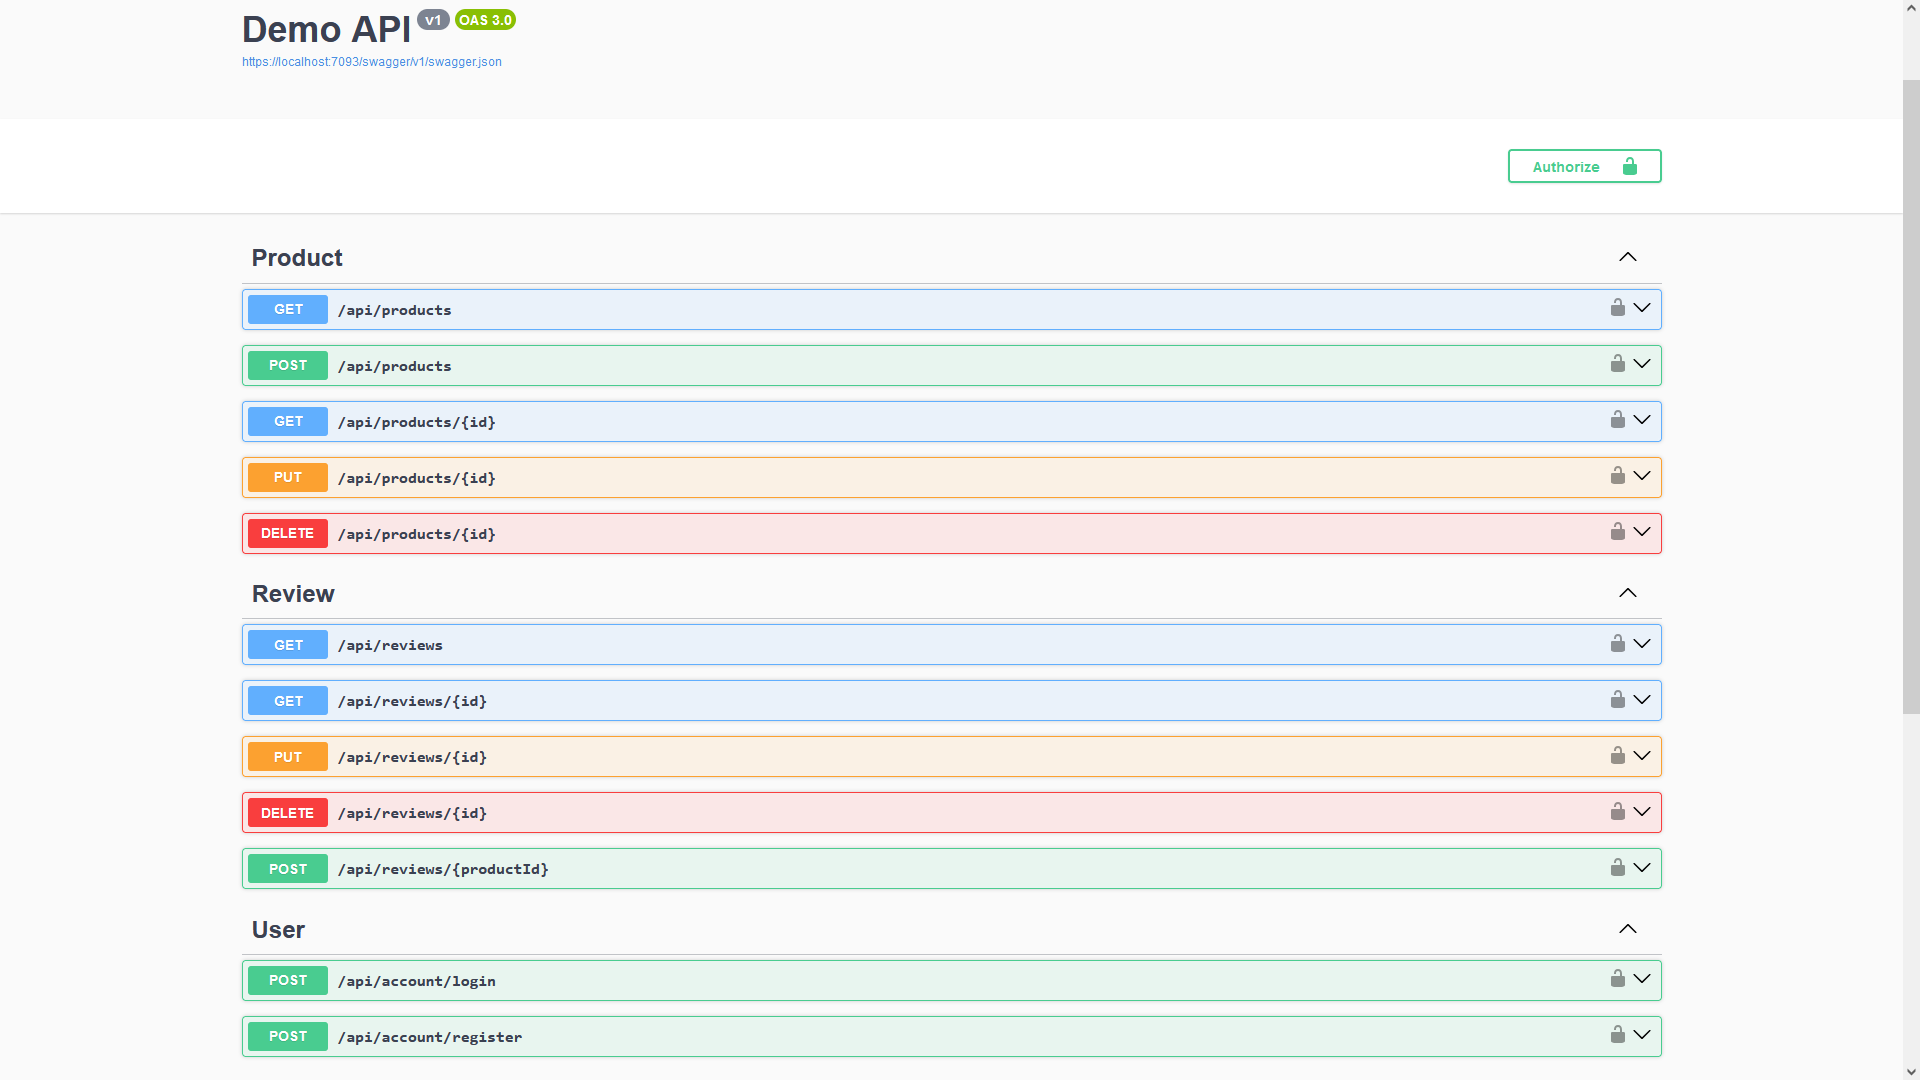
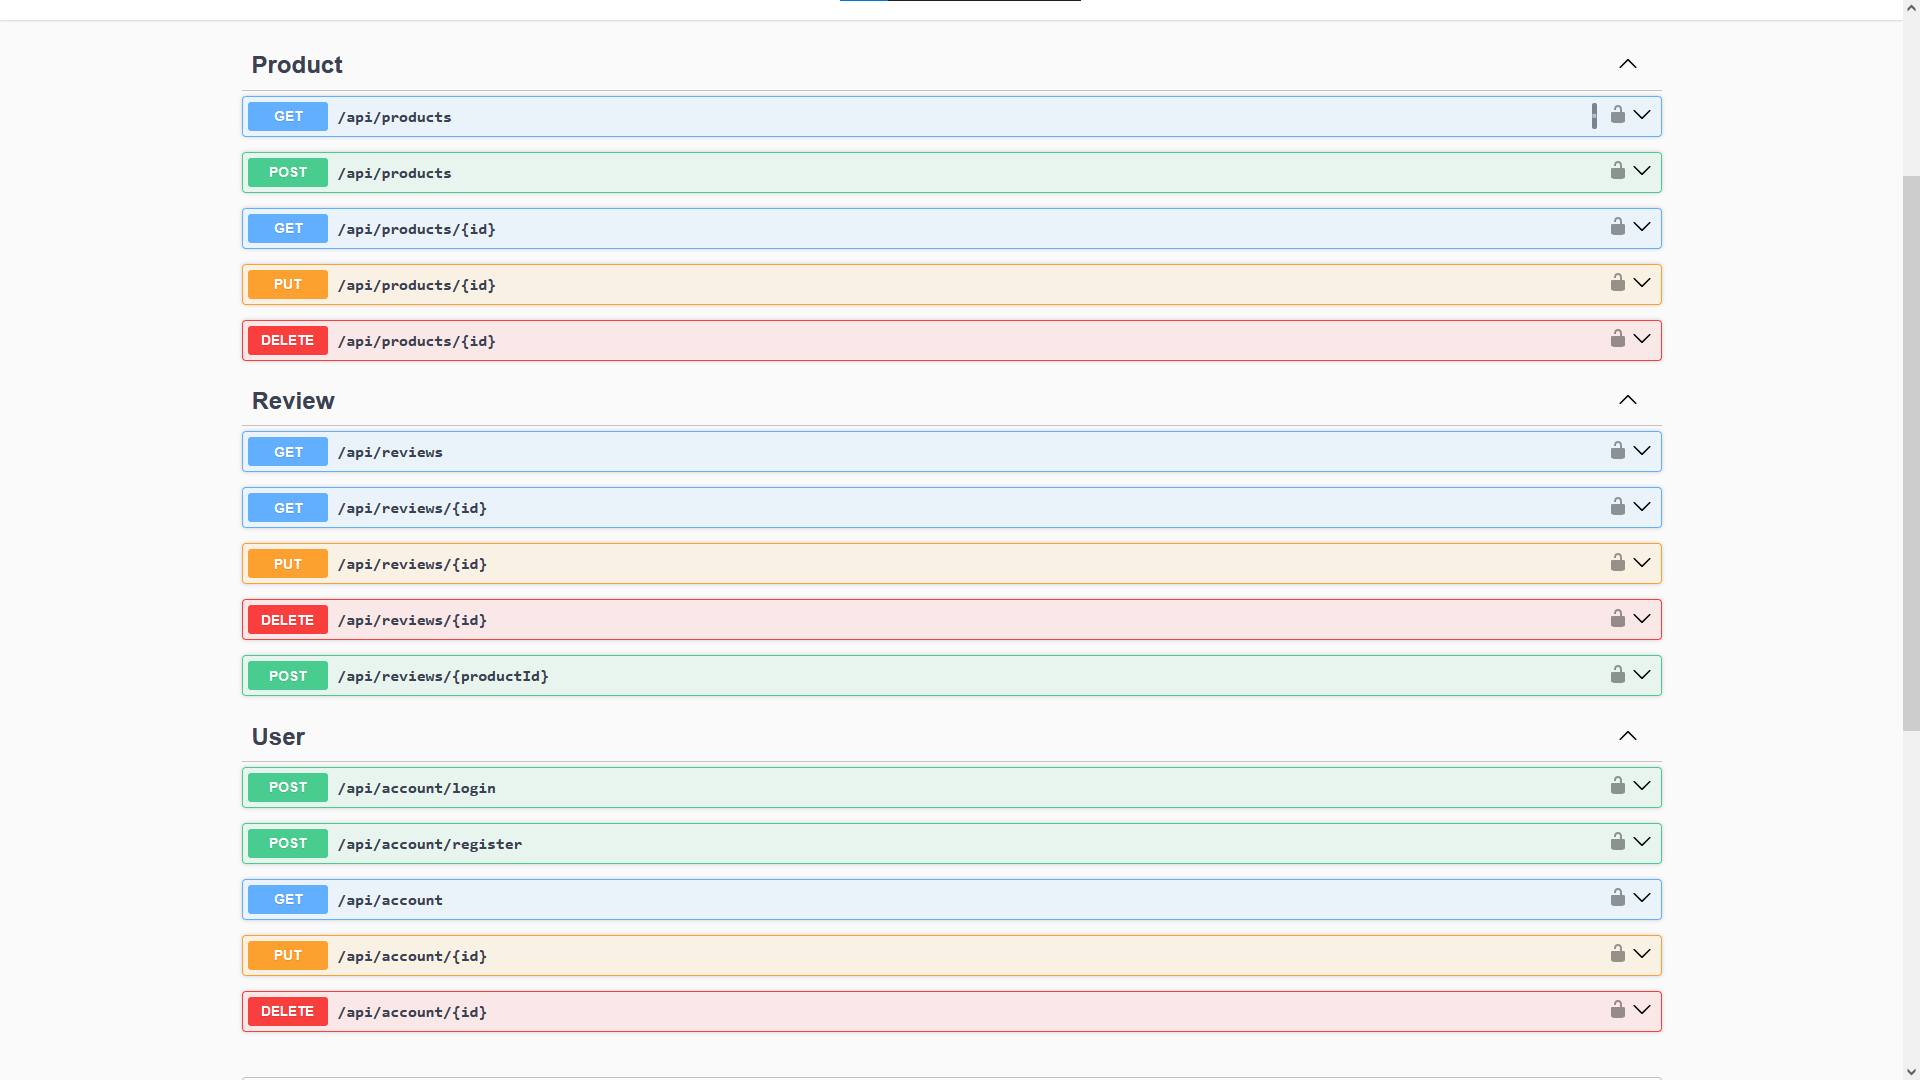
Add user routes and authorization

diff --git a/ProductReviewAPI/Controllers/UserController.cs b/ProductReviewAPI/Controllers/UserController.cs
@@ -1,10 +1,13 @@
-using Azure.Identity;
+using System.Data;
+using Azure.Identity;
+using Microsoft.AspNetCore.Authorization;
 using Microsoft.AspNetCore.Identity;
 using Microsoft.AspNetCore.Mvc;
 using Microsoft.EntityFrameworkCore;
 using ProductReviewAPI.Dtos.User;
 using ProductReviewAPI.Entities;
 using ProductReviewAPI.Interfaces;
+using ProductReviewAPI.Mappers;
 
 namespace ProductReviewAPI.Controllers
 {
@@ -22,6 +25,7 @@ namespace ProductReviewAPI.Controllers
             _signInManager = signInManager;
         }
 
+        [AllowAnonymous]
         [HttpPost("login")]
         public async Task<IActionResult> Login(LoginUserDto loginUserDto)
         {
@@ -47,11 +51,12 @@ namespace ProductReviewAPI.Controllers
                 {
                     UserName = user.UserName,
                     Email = user.Email,
-                    Token = _tokenService.CreateToken(user)
+                    Token = await _tokenService.CreateToken(user)
                 }
             );
         }
 
+        [AllowAnonymous]
         [HttpPost("register")]
         public async Task<IActionResult> Register([FromBody] RegisterUserDto registerUserDto)
         {
@@ -60,6 +65,12 @@ namespace ProductReviewAPI.Controllers
                 if (!ModelState.IsValid)
                 {
                     return BadRequest(ModelState);
+                }
+
+                var existingUserByEmail = await _userManager.FindByEmailAsync(registerUserDto.Email);
+                if (existingUserByEmail != null)
+                {
+                    return BadRequest("Email is already registered");
                 }
 
                 var user = new User
@@ -79,7 +90,7 @@ namespace ProductReviewAPI.Controllers
                             {
                                 UserName = user.UserName,
                                 Email = user.Email,
-                                Token = _tokenService.CreateToken(user)
+                                Token = await _tokenService.CreateToken(user)
                             }    
                         );
                     }
@@ -97,6 +108,87 @@ namespace ProductReviewAPI.Controllers
             {
                 return StatusCode(500, ex);
             }
+        }
+
+        [Authorize(Roles = "Admin")]
+        [HttpGet]
+        public async Task<IActionResult> GetUsers()
+        {
+            var users = await _userManager.Users.ToListAsync();
+
+            var usersDto = new List<UserDto>();
+
+            foreach (var user in users)
+            {
+                var role = await _userManager.GetRolesAsync(user);
+                usersDto.Add(new UserDto
+                {
+                    Id = user.Id,
+                    UserName = user.UserName,
+                    Email = user.Email,
+                    Role = role.FirstOrDefault()
+                });
+            }
+
+            return Ok(usersDto);
+        }
+
+        [Authorize(Roles = "Admin")]
+        [HttpPut("{id}")]
+        public async Task<IActionResult> UpdateUser(string id, [FromBody] EditUserDto editUserDto)
+        {
+            if (string.IsNullOrEmpty(editUserDto.UserName) 
+                || string.IsNullOrEmpty(editUserDto.Email) 
+                || string.IsNullOrEmpty(editUserDto.Role))
+            {
+                return BadRequest("All fields are required");
+            }
+
+            var user = await _userManager.FindByIdAsync(id);
+            if (user == null)
+            {
+                return NotFound();
+            }
+
+            var currentRole = await _userManager.GetRolesAsync(user);
+            await _userManager.RemoveFromRolesAsync(user, currentRole);
+
+            var result = await _userManager.AddToRoleAsync(user, editUserDto.Role);
+            if (!result.Succeeded)
+            {
+                return BadRequest(result.Errors);
+            }
+
+            user.UserName = editUserDto.UserName;
+            user.Email = editUserDto.Email;
+
+            result = await _userManager.UpdateAsync(user);
+            if (!result.Succeeded)
+            {
+                return BadRequest(result.Errors);
+            }
+
+            return Ok(new { Message = "User updated successfully" });
+        }
+
+        [Authorize(Roles = "Admin")]
+        [HttpDelete]
+        [Route("{id}")]
+        public async Task<IActionResult> DeleteUser([FromRoute] string id)
+        {
+            var user = await _userManager.FindByIdAsync(id);
+            if (user == null)
+            {
+                return NotFound($"User with id {id} not found.");
+            }
+
+            var result = await _userManager.DeleteAsync(user);
+            if (!result.Succeeded)
+            {
+                return BadRequest(result.Errors);
+            }
+
+            return Ok(new { Message = $"User {id} was deleted successfully." });
         }
     }
 }

diff --git a/ProductReviewAPI/Service/TokenService.cs b/ProductReviewAPI/Service/TokenService.cs
@@ -1,6 +1,7 @@
 using System.IdentityModel.Tokens.Jwt;
 using System.Security.Claims;
 using System.Text;
+using Microsoft.AspNetCore.Identity;
 using Microsoft.IdentityModel.Tokens;
 using ProductReviewAPI.Entities;
 using ProductReviewAPI.Interfaces;
@@ -11,19 +12,24 @@ namespace ProductReviewAPI.Service
     {
         private readonly IConfiguration _config;
         private readonly SymmetricSecurityKey _key;
-        public TokenService(IConfiguration config)
+        private readonly UserManager<User> _userManager;
+        public TokenService(IConfiguration config, UserManager<User> userManager)
         {
             _config = config;
             _key = new SymmetricSecurityKey(Encoding.UTF8.GetBytes(_config["JWT:SigningKey"]));
+            _userManager = userManager;
         }
 
-        public string CreateToken(User user)
+        public async Task<string> CreateToken(User user)
         {
             var claims = new List<Claim>
             {
                 new Claim(JwtRegisteredClaimNames.Email, user.Email),
                 new Claim(JwtRegisteredClaimNames.GivenName, user.UserName)
             };
+
+            var roles = await _userManager.GetRolesAsync(user);
+            claims.AddRange(roles.Select(role => new Claim(ClaimTypes.Role, role)));
 
             var credentials = new SigningCredentials(_key, SecurityAlgorithms.HmacSha512Signature);
             var tokenDescriptor = new SecurityTokenDescriptor

diff --git a/ProductReviewAPI/Mappers/UserMapper.cs b/ProductReviewAPI/Mappers/UserMapper.cs
@@ -1,0 +1,19 @@
+using ProductReviewAPI.Dtos.Review;
+using ProductReviewAPI.Dtos.User;
+using ProductReviewAPI.Entities;
+
+namespace ProductReviewAPI.Mappers
+{
+    public static class UserMapper
+    {
+        public static UserDto MapToUserDto(this User user)
+        {
+            return new UserDto
+            {
+                Id = user.Id,
+                UserName = user.UserName,
+                Email = user.Email
+            };
+        }
+    }
+}

diff --git a/ProductReviewAPI/Dtos/User/UserDto.cs b/ProductReviewAPI/Dtos/User/UserDto.cs
@@ -1,0 +1,10 @@
+namespace ProductReviewAPI.Dtos.User
+{
+    public class UserDto
+    {
+        public string Id { get; set; }
+        public string UserName { get; set; }
+        public string Email { get; set; }
+        public string Role { get; set; }
+    }
+}

diff --git a/ProductReviewAPI/Dtos/User/EditUserDto.cs b/ProductReviewAPI/Dtos/User/EditUserDto.cs
@@ -1,0 +1,9 @@
+namespace ProductReviewAPI.Dtos.User
+{
+    public class EditUserDto
+    {
+        public string UserName { get; set; }
+        public string Email { get; set; }
+        public string Role { get; set; }
+    }
+}

diff --git a/ProductReviewAPI/Interfaces/ITokenService.cs b/ProductReviewAPI/Interfaces/ITokenService.cs
@@ -4,6 +4,6 @@ namespace ProductReviewAPI.Interfaces
 {
     public interface ITokenService
     {
-        string CreateToken(User user);
+        Task<string> CreateToken(User user);
     }
 }
